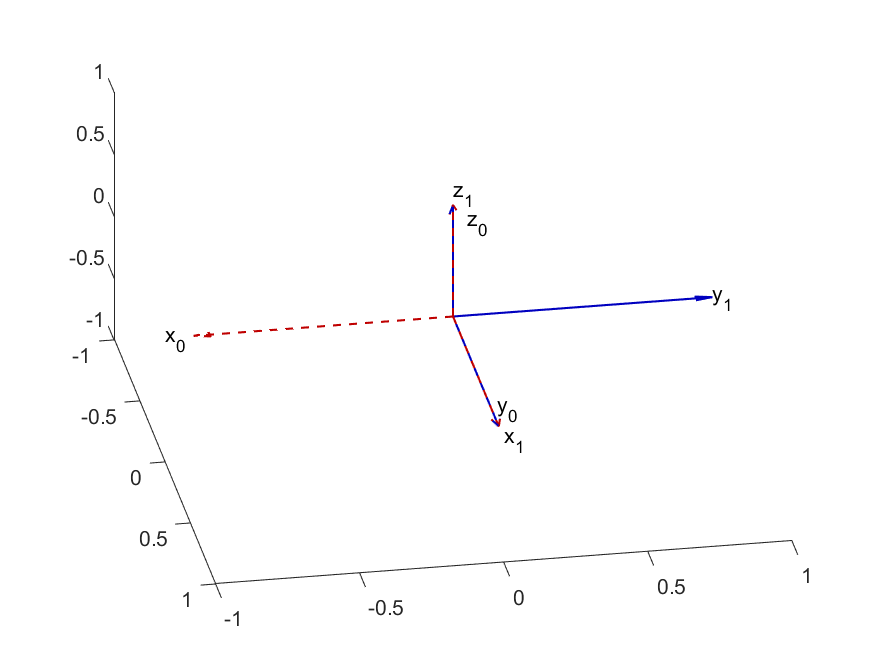
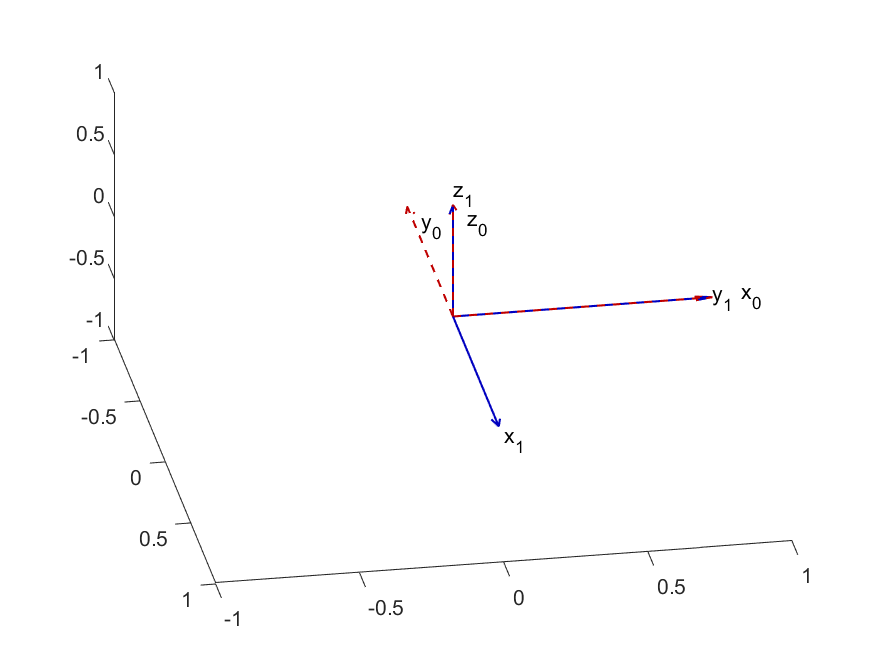
corrected #7

diff --git a/test.m b/test.m
@@ -1,22 +1,195 @@
-%% Formatting
-clc
+%% Navigation - Homework 1 - Tanner Koza
 clear
+clc
 close all
-format shortg
-%%
-DCM = genDCM('deg',[30 20 10],[3 2 1])
-phi = 10;
-cphi = cosd(phi);
-sphi = sind(phi);
 
-theta = 20;
-cth = cosd(theta);
-sth = sind(theta);
 
-psi = 30;
-cpsi = cosd(psi);
-spsi = sind(psi);
+% %% Problem 1
+% % TODO: Refactor this to be cleaner.
+% 
+% walk = readgeotable('Lunch_Walk.gpx');
+% 
+% % GPS
+% geoplot(walk.Shape.Latitude, walk.Shape.Longitude)
+% hold on
+% 
+% % Dead Reckoned
+% sl = 0.9;
+% steps = [661 719 777 807 877 898 1200 1226 1529 1603 1673 1699];
+% stepsDiff = diff(steps);
+% heading = [78 147 64 72 170 92 14 263 240 290 262];
+% 
+% truthNED = lla2ned([walk.Shape.Latitude, walk.Shape.Longitude, zeros(970,1)],[walk.Shape.Latitude(1) walk.Shape.Longitude(1) 0],'ellipsoid');
+% 
+% N = zeros(1,length(heading)+1);
+% E = zeros(1,length(heading)+1);
+% 
+% for i = 2:length(heading)
+%     N(i) = sl*stepsDiff(i-1)*cosd(heading(i-1));
+%     E(i) = sl*stepsDiff(i-1)*sind(heading(i-1));
+% end
+% 
+% upN = interp1(0:11,cumsum(N),0:(11/970):11-(11/970));
+% upE = interp1(0:11,cumsum(E),0:(11/970):11-(11/970));
+% 
+% error = sqrt((truthNED(:,1)'-upN).^2 + (truthNED(:,2)'-upE).^2);
+% 
+% llaDR = ned2lla([cumsum(N') cumsum(E') zeros(1,length(N))'], [walk.Shape.Latitude(1) walk.Shape.Longitude(1) 0], 'ellipsoid');
+% geoplot(llaDR(:,1),llaDR(:,2))
+% geobasemap satellite
+% legend('GPS','Dead Reckoned')
+% title('GPS vs. Dead Reckoned Walk')
+% 
+% figure
+% plot(error)
+% xlabel('GPS Epochs')
+% ylabel('Euclidean Error (m)')
+% title('GPS & Dead Reckoned Error')
+%% Problem 4
 
-DCM1 = [cth*cpsi,                   cth*spsi,                  -sth;
-        -cphi*spsi + sphi*sth*cpsi, cphi*cpsi + sphi*sth*spsi, sphi*cth;
-        sphi*spsi + cphi*sth*cpsi, -sphi*cpsi + cphi*sth*spsi, cphi*cth]
+% Initialization
+Cba = [0, 0, 1; ...
+    0, 1, 0; ...
+    -1, 0, 0];
+Ccb = [1, 0, -1; ...
+    0, 1, 0; ...
+    0, 0, 0];
+Cdc = [1, 0, 0; ...
+    0, 0.5, 0; ...
+    0, 0, 2];
+Ccd = [0.4330, -0.7718, 0.4656; ...
+    0.75, 0.5950, 0.2888; ...
+    -0.5, 0.2241, 0.8365];
+Cfe = [0.5, -0.1464, 0.8536; ...
+    0.5, -0.8536, -0.1464; ...
+    -0.7071, 0.5, 0.5];
+
+% Orthogonal Test
+orthogA = Cba * Cba';
+orthogB = Ccb * Ccb';
+orthogC = Cdc * Cdc';
+orthogD = Ccd * Ccd';
+orthogE = Cfe * Cfe';
+
+% Normal Test
+normA = det(Cba);
+normB = det(Ccb);
+normC = det(Cdc);
+normD = det(Ccd);
+normE = det(Cfe);
+
+%% Problem 5
+
+% Initialization
+C01 = [0, -sqrt(3) / 2, -0.5; ...
+    0, -0.5, sqrt(3) / 2; ...
+    -1, 0, 0];
+v0 = [1; 1; 1];
+
+% Part A
+C10 = C01';
+
+xCF1 = [1; 0; 0];
+yCF1 = [0; 1; 0];
+zCF1 = [0; 0; 1];
+
+xCF10 = C10 * xCF1;
+yCF10 = C10 * yCF1;
+zCF10 = C10 * zCF1;
+
+% Part B
+v1 = C01 * v0;
+
+%% Problem 6
+
+% Part A
+angleZA = 90;
+Rza = [cosd(angleZA), -sind(angleZA), 0; ...
+    sind(angleZA), cosd(angleZA), 0; ...
+    0, 0, 1];
+angleXA = -180;
+Rxa = [1, 0, 0; ...
+    0, cosd(angleXA), -sind(angleXA); ...
+    0, sind(angleXA), cosd(angleXA)];
+CbaA = Rza * Rxa;
+
+% Part B
+angleZB = -45;
+Rzb = [cosd(angleZB), -sind(angleZB), 0; ...
+    sind(angleZB), cosd(angleZB), 0; ...
+    0, 0, 1];
+angleXB = -90;
+Rxb = [1, 0, 0; ...
+    0, cosd(angleXB), -sind(angleXB); ...
+    0, sind(angleXB), cosd(angleXB)];
+CbaB = Rxb * Rzb
+
+%% Problem 7
+
+% Rotation Angles
+zTheta = deg2rad(-90); % first rotation (0 to 1)
+yTheta = deg2rad(90); % second rotation (0 to 1)
+xTheta = deg2rad(-90); % third rotation (0 to 1)
+
+% Rotation Matrices
+Rz = [cos(zTheta) sin(zTheta) 0;
+        -sin(zTheta) cos(zTheta) 0;
+        0 0 1];
+Ry = [cos(yTheta) 0 -sin(yTheta);
+        0 1 0;
+        sin(yTheta) 0 cos(yTheta)];
+Rx = [1 0 0;
+        0 cos(xTheta) sin(xTheta);
+        0 -sin(xTheta) cos(xTheta)];
+
+% NOTE: Ry is pre-multiplied bc it is intrinsic and
+% Rx is post-multiplied bc it is extrinsic
+R01 = Ry * Rz * Rx; 
+R10 = R01';
+
+figure
+dcmPlot2(R01)
+
+%% Problem 8
+
+phi = 120;
+theta = 45;
+psi = -120;
+
+Cz = [cosd(psi), -sind(psi), 0; ...
+    sind(psi), cosd(psi), 0; ...
+    0, 0, 1];
+Cy = [cosd(theta), 0, sind(theta); ...
+    0, 1, 0; ...
+    -sind(theta), 0, cosd(theta)];
+Cx = [1, 0, 0; ...
+    0, cosd(phi), -sind(phi); ...
+    0, sind(phi), cosd(phi)];
+C = Cx * Cy * Cz;
+
+yaw = rad2deg(atan2(C(1,2),C(1,1)))
+pitch = rad2deg(asin(C(1,3)))
+roll = rad2deg(atan2(C(2,3),C(3,3)))
+
+%% Problem 9
+
+theta = 10; %pi/2 - atan2(4,3);
+
+Rx = [1 0 0;
+    0 cosd(theta) -sind(theta);
+    0 sind(theta) cosd(theta)]
+
+Ry =[cosd(20) 0 sind(20);
+    0 1 0;
+    -sind(20) 0 cosd(20)]
+
+Rz = [cosd(30) -sind(30) 0;
+    sind(30) cosd(30) 0; ...
+    0 0 1];
+
+CBG = Rx * Ry * Rz
+
+% Rx = [1, 0, 0; ...
+%     0, cosd(atan2d(4,3)), -sind(atan2d(4,3)); ...
+%     0, sind(atan2d(4,3)), cosd(atan2d(4,3))];
+% CBA = Rx 

diff --git a/Q7.m b/Q7.m
@@ -5,7 +5,7 @@ close all
 format shortg
 %% Begin Question 7
 
-DCM = genDCM('deg',[-90 -90 90],[1 3 2])
+DCM = genDCM('deg',[90 90 90],[1 3 2])
 
 %frame 1 to 0
 fig1 = figure;
@@ -14,20 +14,20 @@ hold on
 xlim([-1.0 1.0])
 ylim([-1.0 1.0])
 zlim([-1.0 1.0])
-% Frame 0
+% Frame 1
 quiver3(0,0,0,1,0,0,'LineWidth',1,'Color',[0 0 0.75],ShowArrowHead='on')
 quiver3(0,0,0,0,1,0,'LineWidth',1,'Color',[0 0 0.75],ShowArrowHead='on')
 quiver3(0,0,0,0,0,1,'LineWidth',1,'Color',[0 0 0.75],ShowArrowHead='on')
 text(1,0,0,'x_1')
 text(0,0.9,0,'y_1')
 text(0,0,1,'z_1')
-% Frame 1
+% Frame 0
 % x_0
-quiver3(0,0,0,0,-1,0,'LineWidth',1,'Color',[0.75 0 0],'LineStyle','--',ShowArrowHead='on')
-text(0,-1,0,'x_0')
+quiver3(0,0,0,0,1,0,'LineWidth',1,'Color',[0.75 0 0],'LineStyle','--',ShowArrowHead='on')
+text(0,1,0,'x_0')
 % y_0
-quiver3(0,0,0,1,0,0,'LineWidth',1,'Color',[0.75 0 0],'LineStyle','--',ShowArrowHead='on')
-text(0.75,0.02,0,'y_0')
+quiver3(0,0,0,-1,0,0,'LineWidth',1,'Color',[0.75 0 0],'LineStyle','--',ShowArrowHead='on')
+text(-0.75,0.02,0,'y_0')
 % z_0
 quiver3(0,0,0,0,0,1,'LineWidth',1,'Color',[0.75 0 0],'LineStyle','--',ShowArrowHead='on')
 text(0,0.05,0.75,'z_0')

diff --git a/hw2.tex b/hw2.tex
@@ -428,9 +428,9 @@
             \begin{split}
                 C^0_1 & =
                 \begin{bmatrix}
-                    0 & -1 & 0 \\
-                    1 & 0  & 0 \\
-                    0 & 0  & 1 \\
+                    0  & 1 & 0 \\
+                    -1 & 0 & 0 \\
+                    0  & 0 & 1 \\
                 \end{bmatrix}\\
             \end{split}
             \label{eq:12}
